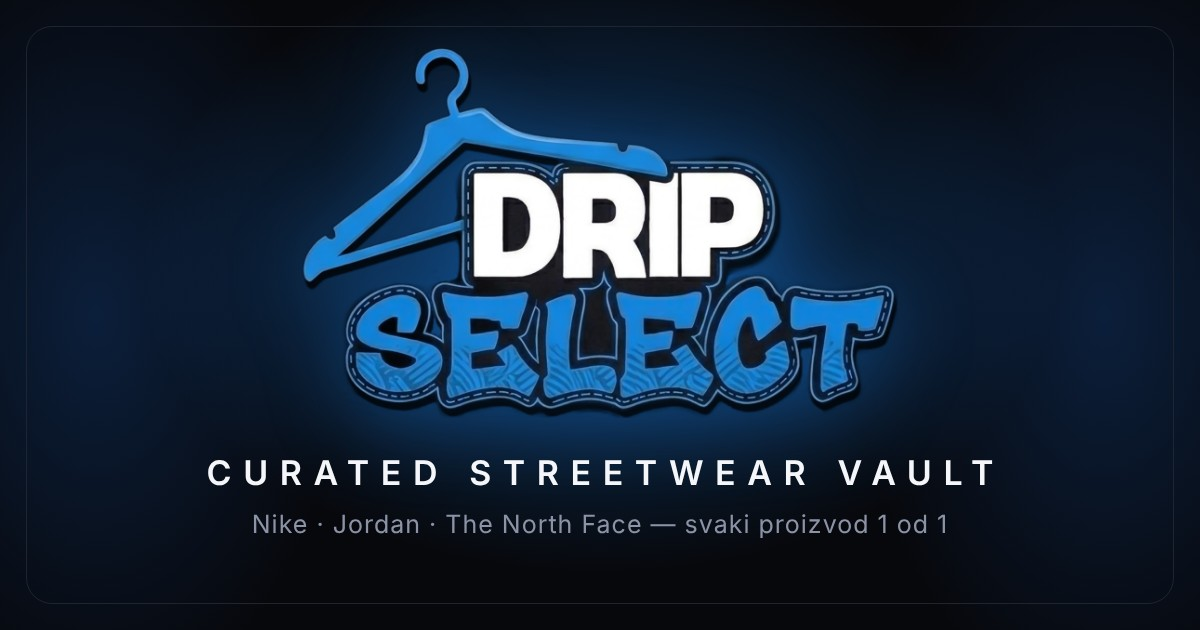
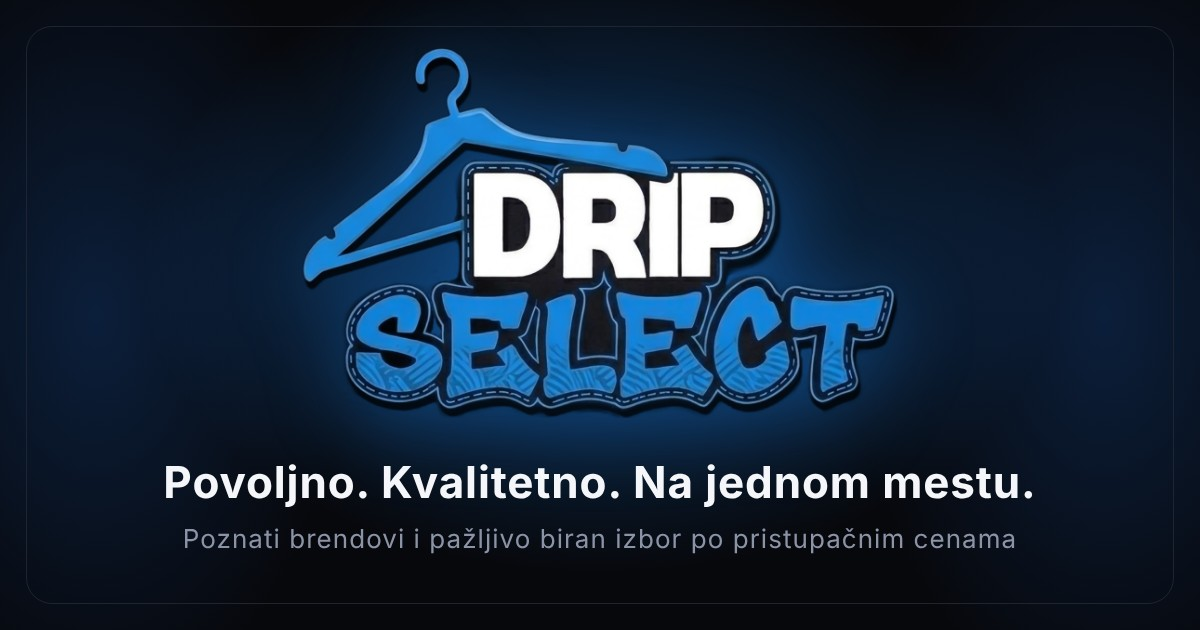
Novi slogan i opis: Povoljno. Kvalitetno. Na jednom mestu.
- naslov strane, opis, og/twitter oznake, hero i slika za deljenje (og.jpg)
- uklonjen ton 'ko prvi naruči, njegov je' sa početne, strane proizvoda i O nama
- naslov na početnoj lepo se lomi u dva reda (text-wrap: balance)

Claude-Session: https://claude.ai/code/session_01UVm1HHzrcaDa2NcoS9toPH

Changed region(s): [[0.1233, 0.7238, 0.8633, 0.8746]]

diff --git a/public/index.html b/public/index.html
@@ -3,8 +3,8 @@
 <head>
 <meta charset="utf-8">
 <meta name="viewport" content="width=device-width, initial-scale=1, viewport-fit=cover">
-<title>DRIP SELECT – Curated Streetwear Vault</title>
-<meta name="description" content="Unikatni proizvodi Nike, Jordan i The North Face brendova. Svaki proizvod je 1 od 1: ko prvi naruči, njegov je.">
+<title>DRIP SELECT – Povoljno. Kvalitetno. Na jednom mestu.</title>
+<meta name="description" content="Poznati brendovi i pažljivo biran izbor po pristupačnim cenama.">
 <meta name="theme-color" content="#07080c">
 <link rel="icon" href="/favicon.ico" sizes="any">
 <link rel="icon" type="image/png" sizes="32x32" href="/favicon-32.png">
@@ -13,17 +13,17 @@
 <meta property="og:type" content="website">
 <meta property="og:site_name" content="DRIP SELECT">
 <meta property="og:locale" content="sr_RS">
-<meta property="og:title" content="DRIP SELECT – Curated Streetwear Vault">
-<meta property="og:description" content="Unikatni proizvodi Nike, Jordan i The North Face brendova. Svaki proizvod je 1 od 1: ko prvi naruči, njegov je.">
+<meta property="og:title" content="DRIP SELECT – Povoljno. Kvalitetno. Na jednom mestu.">
+<meta property="og:description" content="Poznati brendovi i pažljivo biran izbor po pristupačnim cenama.">
 <meta property="og:url" content="https://dripselect.rs/">
 <meta property="og:image" content="https://dripselect.rs/og.jpg">
 <meta property="og:image:type" content="image/jpeg">
 <meta property="og:image:width" content="1200">
 <meta property="og:image:height" content="630">
-<meta property="og:image:alt" content="DRIP SELECT logo – Curated Streetwear Vault">
+<meta property="og:image:alt" content="DRIP SELECT logo – Povoljno. Kvalitetno. Na jednom mestu.">
 <meta name="twitter:card" content="summary_large_image">
-<meta name="twitter:title" content="DRIP SELECT – Curated Streetwear Vault">
-<meta name="twitter:description" content="Unikatni proizvodi Nike, Jordan i The North Face brendova. Svaki proizvod je 1 od 1: ko prvi naruči, njegov je.">
+<meta name="twitter:title" content="DRIP SELECT – Povoljno. Kvalitetno. Na jednom mestu.">
+<meta name="twitter:description" content="Poznati brendovi i pažljivo biran izbor po pristupačnim cenama.">
 <meta name="twitter:image" content="https://dripselect.rs/og.jpg">
 <link rel="preconnect" href="https://fonts.googleapis.com">
 <link rel="preconnect" href="https://fonts.gstatic.com" crossorigin>
@@ -50,7 +50,7 @@ nav{display:flex;gap:22px;font-weight:600;font-size:14px}nav a:hover{color:var(-
 a:focus-visible,button:focus-visible,input:focus-visible,textarea:focus-visible{outline:2px solid #fff;outline-offset:2px}
 .hero{text-align:center;padding:40px 5vw 56px}
 .hero img{width:min(380px,80vw);height:auto}
-.hero h1{font-size:clamp(32px,6.5vw,60px);line-height:1.04;margin:6px 0 14px;text-transform:uppercase;letter-spacing:-1px}
+.hero h1{font-size:clamp(28px,6vw,56px);line-height:1.06;margin:6px auto 14px;max-width:900px;text-transform:uppercase;letter-spacing:-1px;text-wrap:balance}
 .hero p{max-width:520px;margin:0 auto 26px;color:var(--mut)}
 .w{max-width:1200px;margin:0 auto;padding:0 5vw}
 .n{max-width:980px}
@@ -203,7 +203,7 @@ function head(){var f=P.filter(function(p){return !sold(p.id)}).length;$("#pill"
 
 function home(){
   var av=P.filter(function(p){return !sold(p.id)}).length;
-  var h='<div class="hero"><img src="'+LOGO+'" alt="Drip Select"><h1>Curated streetwear vault</h1><p>Unikatni proizvodi Nike, Jordan i The North Face brendova. Svaki proizvod je 1 od 1: ko prvi naruči, njegov je.</p><a class="btn" href="#proizvodi">Pogledaj proizvode</a></div>'+
+  var h='<div class="hero"><img src="'+LOGO+'" alt="Drip Select"><h1>Povoljno. Kvalitetno. Na jednom mestu.</h1><p>Poznati brendovi i pažljivo biran izbor po pristupačnim cenama.</p><a class="btn" href="#proizvodi">Pogledaj proizvode</a></div>'+
   '<section class="w" id="proizvodi"><div class="sh"><div><span>Kolekcija #01</span><h2>Trenutno na stanju</h2></div><span id="cnt"></span></div>';
   h+=av?'<div class="tools"><input id="q" type="search" placeholder="Pretraži proizvode..." aria-label="Pretraga" value="'+esc(F.q)+'"><div id="flt"></div></div><div class="grid" id="grid"></div>':drop();
   app.innerHTML=h+'<a class="cta" href="#po-zelji"><div><b>Ne nalaziš ono što tražiš?</b><span>Pošalji sliku proizvoda koji želiš, a mi ga potražimo za tebe.</span></div><span class="btn">Naruči po želji</span></a></section>';
@@ -226,7 +226,7 @@ function prod(id){
   app.innerHTML='<div class="w"><a class="back" href="#proizvodi">← Nazad na proizvode</a>'+
   '<div class="pg"><div class="fs">'+th+'</div><button class="big" id="big" data-zoom type="button" aria-label="Uvećaj sliku"></button>'+
   '<aside class="panel"><span class="lbl">'+esc(p.brand)+' · '+esc(p.cat)+'</span><h1>'+esc(p.name)+'</h1><span class="price">'+fmt(p.price)+'</span>'+
-  '<div class="last'+(s?' no':'')+'">'+(s?'Prodato: ovaj proizvod je već našao vlasnika.':'Jedini proizvod: ko prvi naruči, njegov je.')+'</div>'+
+  '<div class="last'+(s?' no':'')+'">'+(s?'Prodato: ovaj proizvod je već našao vlasnika.':'Dostupan je samo jedan primerak.')+'</div>'+
   (p.cond?'<div class="opt">Stanje <b>'+esc(p.cond.split(" ")[0])+'</b></div><div class="meter">'+mt+'</div>':'')+
   '<div class="opt">Veličina <b>'+esc(p.size)+'</b></div><div class="opt" style="margin:10px 0 0">Boja <b><i class="dot" style="background:'+colorBg(p.color,p.hex)+'"></i>'+esc(p.color)+'</b></div>'+
   '<div class="bb">'+(s?'<button class="btn full" disabled>Nije na stanju</button>':'<button class="btn ghost" data-add="'+id+'">Dodaj u korpu</button><button class="btn" data-buy="'+id+'">Naruči odmah</button>')+'</div>'+
@@ -292,7 +292,7 @@ document.addEventListener("submit",function(e){
   fl.forEach(function(x){shrink(x,function(u){ph2.push(u);if(ph2.length===fl.length)fin()})});
 });
 function about(){
-  var c=[["Samo originali","Svaki proizvod prolazi proveru pre objave."],["Svaki proizvod je 1 od 1","Nema ponovnog dopunjavanja. Ko prvi naruči, njegov je."],["Iskrena ocena stanja","Ako ima mane, pišemo ih i slikamo."]].map(function(x){return '<div><small>'+x[0]+'</small>'+x[1]+'</div>'}).join("");
+  var c=[["Samo originali","Svaki proizvod prolazi proveru pre objave."],["Svaki proizvod je u jednom primerku","Nema ponovnog dopunjavanja: kad ga neko naruči, sklanjamo ga sa sajta."],["Iskrena ocena stanja","Ako ima mane, pišemo ih i slikamo."]].map(function(x){return '<div><small>'+x[0]+'</small>'+x[1]+'</div>'}).join("");
   app.innerHTML='<div class="w n"><a class="back" href="#">← Nazad na sajt</a><h1 style="font-size:42px;margin:0 0 14px">O nama</h1>'+
   '<p class="lead">Biramo samo ono što bismo i sami nosili: Nike, Jordan i The North Face, uvek originalno. Svaki proizvod dobija fotografije iz svih uglova, tačnu veličinu i ocenu stanja od 1 do 10, bez uljepšavanja.</p>'+
   '<div class="specs" style="margin:28px 0">'+c+'</div><a class="btn" href="#proizvodi">Pogledaj proizvode</a><div style="height:70px"></div></div>';
